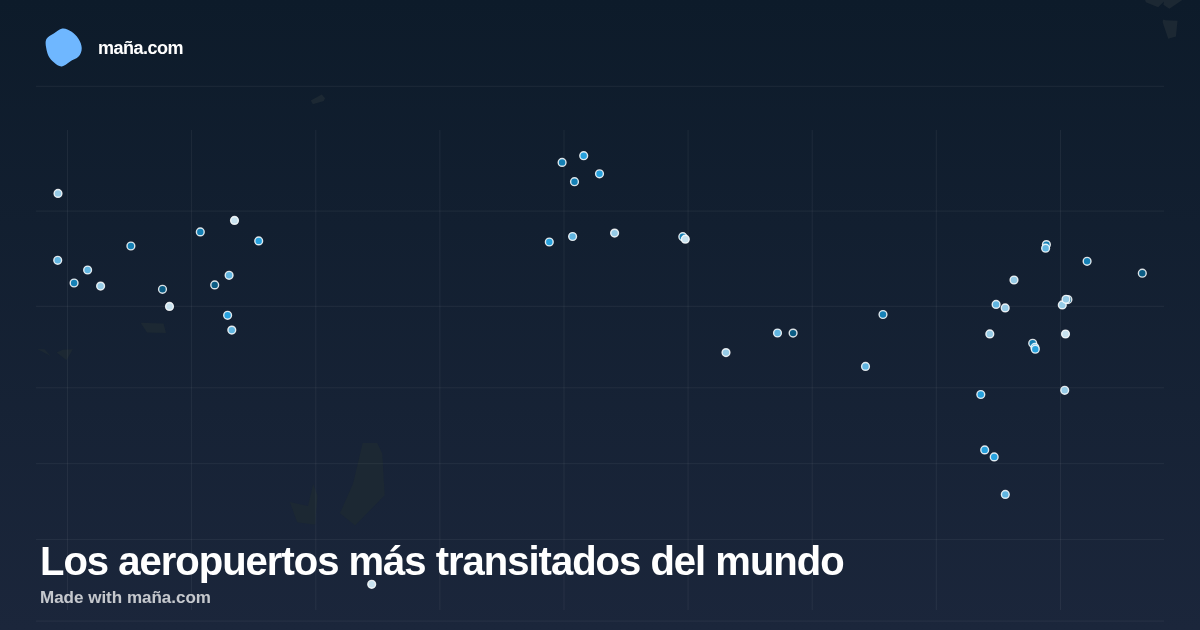
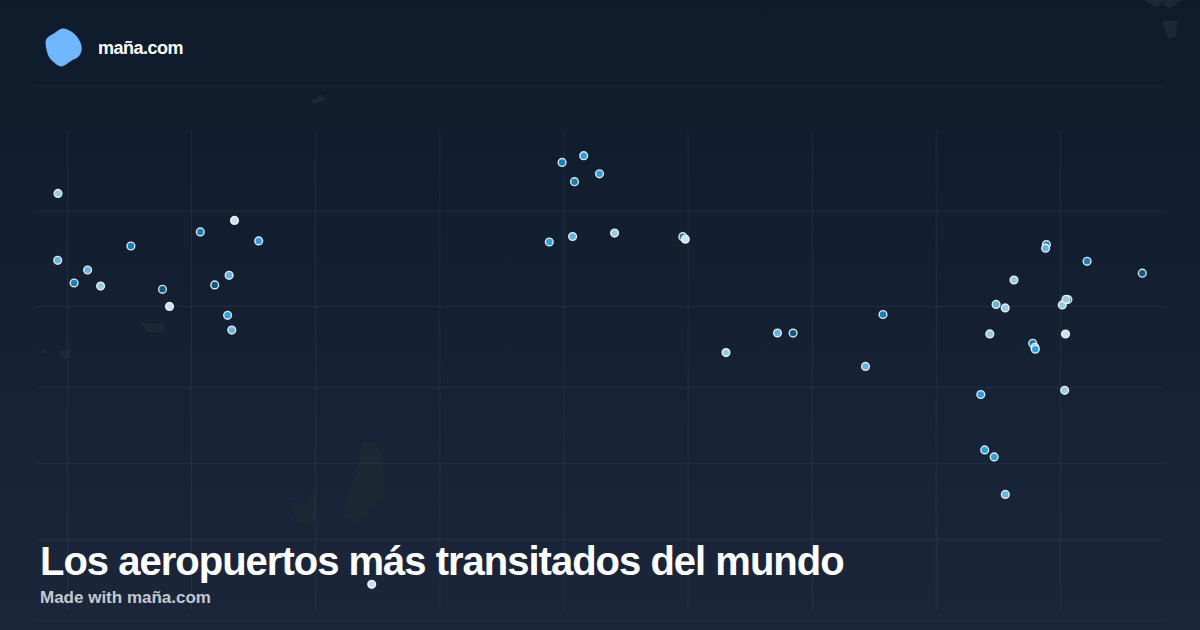
chore: generar landings estaticas y OG cards de mapas

Changed region(s): [[0.0308, 0.8746, 0.7092, 0.9048], [0.0308, 0.9349, 0.185, 0.9651], [0.0617, 0.0603, 0.1542, 0.0905]]

diff --git a/gallery/largest-islands-world/index.html b/gallery/largest-islands-world/index.html
@@ -23,7 +23,7 @@
 <link rel="preconnect" href="https://fonts.googleapis.com">
 <link rel="preconnect" href="https://fonts.gstatic.com" crossorigin>
 <link rel="stylesheet" href="https://fonts.googleapis.com/css2?family=DM+Sans:wght@400;500;600;700;800;900&display=swap">
-<script type="application/ld+json">{"@context":"https://schema.org","@type":"Dataset","name":"Las islas más grandes del mundo","description":"Las 22 islas más grandes del planeta ordenadas por superficie. Groenlandia, con más de 2 millones de km², es casi 5 veces más grande que Madagascar, la cuarta isla más grande.","url":"https://maña.com/gallery/largest-islands-world/","spatialCoverage":{"@type":"Place","name":"Mundo"},"creator":{"@type":"Organization","name":"Maña Maps","url":"https://maña.com"},"source":"Natural Earth 50m (geometría de islas) + Wikipedia (superficie y población) · 2026-09","dateModified":"2026-10-15","keywords":["Geografía","Naturaleza","Islas","Océanos"]}</script>
+<script type="application/ld+json">{"@context":"https://schema.org","@type":"Dataset","name":"Las islas más grandes del mundo","description":"Las 22 islas más grandes del planeta ordenadas por superficie. Groenlandia, con más de 2 millones de km², es casi 5 veces más grande que Madagascar, la cuarta isla más grande.","url":"https://maña.com/gallery/largest-islands-world/","spatialCoverage":{"@type":"Place","name":"Mundo"},"creator":{"@type":"Organization","name":"Maña Maps","url":"https://maña.com"},"dateModified":"2026-10-18"}</script>
 <style>
   :root{--sky:#0ea5e9;--ink:#111827;--muted:#6b7280;--line:#e5e7eb}
   *{box-sizing:border-box}
@@ -68,14 +68,14 @@
     <h1>Las islas más grandes del mundo</h1>
     <p class="lede">Las 22 islas más grandes del planeta ordenadas por superficie. Groenlandia, con más de 2 millones de km², es casi 5 veces más grande que Madagascar, la cuarta isla más grande.</p>
     <a class="shot" href="/gallery/?slug=largest-islands-world"><img src="/og-cards/largest-islands-world.png" alt="Las islas más grandes del mundo" width="1200" height="630"></a>
-    <p class="meta">22 elementos · 2026-10-15</p>
+    <p class="meta">22 elementos · 2026-10-18</p>
     <div class="cta">
       <a class="btn btn-primary" href="/map/" onclick="if(window.trackEvent)window.trackEvent('cta_click',{target:'create_map',source:'static_map'})">Crea tu mapa gratis</a>
       <a class="btn btn-ghost" href="/gallery/?slug=largest-islands-world" onclick="if(window.trackEvent)window.trackEvent('cta_click',{target:'interactive',source:'static_map'})">Abrir mapa interactivo</a>
       <a class="btn btn-ghost" href="https://twitter.com/intent/tweet?text=Las%20islas%20m%C3%A1s%20grandes%20del%20mundo%20%E2%80%94%20v%C3%ADa%20Ma%C3%B1a%20Maps&url=https%3A%2F%2Fma%C3%B1a.com%2Fgallery%2Flargest-islands-world%2F" target="_blank" rel="noopener" onclick="if(window.trackEvent)window.trackEvent('share',{network:'x',source:'static_map'})">Compartir en X</a>
     </div>
-    <div class="source"><strong>Fuente de datos:</strong> Natural Earth 50m (geometría de islas) + Wikipedia (superficie y población) · 2026-09</div>
-    <section class="related"><h2>Más mapas</h2><ul><li><a href="/gallery/gini-index-world/">Desigualdad de ingresos (índice Gini) mundial por país</a></li><li><a href="/gallery/tourism-arrivals-world/">Países que más reciben turistas internacionales</a></li><li><a href="/gallery/most-populated-cities-world/">Ciudades más pobladas del mundo</a></li><li><a href="/gallery/tallest-waterfalls-world/">Las cascadas más altas del mundo</a></li></ul></section>
+    
+    <section class="related"><h2>Más mapas</h2><ul><li><a href="/gallery/airports-world/">Los aeropuertos más transitados del mundo</a></li><li><a href="/gallery/gini-index-world/">Desigualdad de ingresos (índice Gini) mundial por país</a></li><li><a href="/gallery/tourism-arrivals-world/">Países que más reciben turistas internacionales</a></li><li><a href="/gallery/most-populated-cities-world/">Ciudades más pobladas del mundo</a></li></ul></section>
   </main>
   <footer>
     <a href="/gallery/">Galería</a>

diff --git a/gallery/longest-rivers-world/index.html b/gallery/longest-rivers-world/index.html
@@ -23,7 +23,7 @@
 <link rel="preconnect" href="https://fonts.googleapis.com">
 <link rel="preconnect" href="https://fonts.gstatic.com" crossorigin>
 <link rel="stylesheet" href="https://fonts.googleapis.com/css2?family=DM+Sans:wght@400;500;600;700;800;900&display=swap">
-<script type="application/ld+json">{"@context":"https://schema.org","@type":"Dataset","name":"Los 10 ríos más largos del mundo","description":"Los diez ríos más extensos del planeta, con sus cursos reales obtenidos de Natural Earth. Cada río muestra longitud, nacimiento, desembocadura y países que atraviesa.","url":"https://maña.com/gallery/longest-rivers-world/","spatialCoverage":{"@type":"Place","name":"Mundo"},"creator":{"@type":"Organization","name":"Maña Maps","url":"https://maña.com"},"source":"Natural Earth 50m rivers_lake_centerlines (naturalearthdata.com) · 2024-12-01","dateModified":"2026-10-15","keywords":["Geografía","Hidrografía","Naturaleza"]}</script>
+<script type="application/ld+json">{"@context":"https://schema.org","@type":"Dataset","name":"Los 10 ríos más largos del mundo","description":"Los diez ríos más extensos del planeta, con sus cursos reales obtenidos de Natural Earth. Cada río muestra longitud, nacimiento, desembocadura y países que atraviesa.","url":"https://maña.com/gallery/longest-rivers-world/","spatialCoverage":{"@type":"Place","name":"Mundo"},"creator":{"@type":"Organization","name":"Maña Maps","url":"https://maña.com"},"dateModified":"2026-10-18"}</script>
 <style>
   :root{--sky:#0ea5e9;--ink:#111827;--muted:#6b7280;--line:#e5e7eb}
   *{box-sizing:border-box}
@@ -68,14 +68,14 @@
     <h1>Los 10 ríos más largos del mundo</h1>
     <p class="lede">Los diez ríos más extensos del planeta, con sus cursos reales obtenidos de Natural Earth. Cada río muestra longitud, nacimiento, desembocadura y países que atraviesa.</p>
     <a class="shot" href="/gallery/?slug=longest-rivers-world"><img src="/og-cards/longest-rivers-world.png" alt="Los 10 ríos más largos del mundo" width="1200" height="630"></a>
-    <p class="meta">10 elementos · 2026-10-15</p>
+    <p class="meta">10 elementos · 2026-10-18</p>
     <div class="cta">
       <a class="btn btn-primary" href="/map/" onclick="if(window.trackEvent)window.trackEvent('cta_click',{target:'create_map',source:'static_map'})">Crea tu mapa gratis</a>
       <a class="btn btn-ghost" href="/gallery/?slug=longest-rivers-world" onclick="if(window.trackEvent)window.trackEvent('cta_click',{target:'interactive',source:'static_map'})">Abrir mapa interactivo</a>
       <a class="btn btn-ghost" href="https://twitter.com/intent/tweet?text=Los%2010%20r%C3%ADos%20m%C3%A1s%20largos%20del%20mundo%20%E2%80%94%20v%C3%ADa%20Ma%C3%B1a%20Maps&url=https%3A%2F%2Fma%C3%B1a.com%2Fgallery%2Flongest-rivers-world%2F" target="_blank" rel="noopener" onclick="if(window.trackEvent)window.trackEvent('share',{network:'x',source:'static_map'})">Compartir en X</a>
     </div>
-    <div class="source"><strong>Fuente de datos:</strong> Natural Earth 50m rivers_lake_centerlines (naturalearthdata.com) · 2024-12-01</div>
-    <section class="related"><h2>Más mapas</h2><ul><li><a href="/gallery/gini-index-world/">Desigualdad de ingresos (índice Gini) mundial por país</a></li><li><a href="/gallery/tourism-arrivals-world/">Países que más reciben turistas internacionales</a></li><li><a href="/gallery/most-populated-cities-world/">Ciudades más pobladas del mundo</a></li><li><a href="/gallery/tallest-waterfalls-world/">Las cascadas más altas del mundo</a></li></ul></section>
+    
+    <section class="related"><h2>Más mapas</h2><ul><li><a href="/gallery/airports-world/">Los aeropuertos más transitados del mundo</a></li><li><a href="/gallery/gini-index-world/">Desigualdad de ingresos (índice Gini) mundial por país</a></li><li><a href="/gallery/tourism-arrivals-world/">Países que más reciben turistas internacionales</a></li><li><a href="/gallery/most-populated-cities-world/">Ciudades más pobladas del mundo</a></li></ul></section>
   </main>
   <footer>
     <a href="/gallery/">Galería</a>

diff --git a/gallery/minimum-wage-by-country/index.html b/gallery/minimum-wage-by-country/index.html
@@ -75,7 +75,7 @@
       <a class="btn btn-ghost" href="https://twitter.com/intent/tweet?text=Salario%20m%C3%ADnimo%20por%20pa%C3%ADs%20%E2%80%94%20v%C3%ADa%20Ma%C3%B1a%20Maps&url=https%3A%2F%2Fma%C3%B1a.com%2Fgallery%2Fminimum-wage-by-country%2F" target="_blank" rel="noopener" onclick="if(window.trackEvent)window.trackEvent('share',{network:'x',source:'static_map'})">Compartir en X</a>
     </div>
     <div class="source"><strong>Fuente de datos:</strong> OIT/ILOSTAT (statutory nominal gross monthly minimum wage, Dec 2024) + WageIndicator Minimum Wage Database Dec 2024 (193 ONU + 14 territorios; 500+ fuentes oficiales) + Banco Mundial WDI PA.NUS.FCRF tipo de cambio oficial 2024 (LCU/USD) + convenios colectivos nacionales (Austria/Dinamarca/Finlandia/Islandia/Suecia/Noruega/Italia/Liechtenstein ~1500-1700 EUR o 14000-17000 SEK/DKK/NOK/ISK; Singapur PWM, EAU/Brunéi sectorial) y estimaciones sectoriales OIT para Eritrea/Etiopía/Somalia/Sudán del Sur/Ruanda/Uganda/Namibia/Tonga/Tuvalu/Nauru (umbral pobreza/salario medio sector menor) · 2024-12-01</div>
-    <section class="related"><h2>Más mapas</h2><ul><li><a href="/gallery/gini-index-world/">Desigualdad de ingresos (índice Gini) mundial por país</a></li><li><a href="/gallery/tourism-arrivals-world/">Países que más reciben turistas internacionales</a></li><li><a href="/gallery/most-populated-cities-world/">Ciudades más pobladas del mundo</a></li><li><a href="/gallery/tallest-waterfalls-world/">Las cascadas más altas del mundo</a></li></ul></section>
+    <section class="related"><h2>Más mapas</h2><ul><li><a href="/gallery/airports-world/">Los aeropuertos más transitados del mundo</a></li><li><a href="/gallery/gini-index-world/">Desigualdad de ingresos (índice Gini) mundial por país</a></li><li><a href="/gallery/tourism-arrivals-world/">Países que más reciben turistas internacionales</a></li><li><a href="/gallery/most-populated-cities-world/">Ciudades más pobladas del mundo</a></li></ul></section>
   </main>
   <footer>
     <a href="/gallery/">Galería</a>

diff --git a/gallery/water-sanitation-access-world/index.html b/gallery/water-sanitation-access-world/index.html
@@ -75,7 +75,7 @@
       <a class="btn btn-ghost" href="https://twitter.com/intent/tweet?text=Acceso%20a%20agua%20potable%20y%20saneamiento%20por%20pa%C3%ADs%20%E2%80%94%20v%C3%ADa%20Ma%C3%B1a%20Maps&url=https%3A%2F%2Fma%C3%B1a.com%2Fgallery%2Fwater-sanitation-access-world%2F" target="_blank" rel="noopener" onclick="if(window.trackEvent)window.trackEvent('share',{network:'x',source:'static_map'})">Compartir en X</a>
     </div>
     <div class="source"><strong>Fuente de datos:</strong> World Bank — People using at least basic drinking water services (% of population). Indicator SH.H2O.BASW.ZS; People using at least basic sanitation services (% of population). Indicator SH.STA.BASS.ZS. Datos WHO/UNICEF JMP vía World Bank. https://data.worldbank.org/indicator/SH.H2O.BASW.ZS · 2024-12-31</div>
-    <section class="related"><h2>Más mapas</h2><ul><li><a href="/gallery/gini-index-world/">Desigualdad de ingresos (índice Gini) mundial por país</a></li><li><a href="/gallery/tourism-arrivals-world/">Países que más reciben turistas internacionales</a></li><li><a href="/gallery/most-populated-cities-world/">Ciudades más pobladas del mundo</a></li><li><a href="/gallery/tallest-waterfalls-world/">Las cascadas más altas del mundo</a></li></ul></section>
+    <section class="related"><h2>Más mapas</h2><ul><li><a href="/gallery/airports-world/">Los aeropuertos más transitados del mundo</a></li><li><a href="/gallery/gini-index-world/">Desigualdad de ingresos (índice Gini) mundial por país</a></li><li><a href="/gallery/tourism-arrivals-world/">Países que más reciben turistas internacionales</a></li><li><a href="/gallery/most-populated-cities-world/">Ciudades más pobladas del mundo</a></li></ul></section>
   </main>
   <footer>
     <a href="/gallery/">Galería</a>

diff --git a/gallery/tourism-arrivals-world/index.html b/gallery/tourism-arrivals-world/index.html
@@ -75,7 +75,7 @@
       <a class="btn btn-ghost" href="https://twitter.com/intent/tweet?text=Pa%C3%ADses%20que%20m%C3%A1s%20reciben%20turistas%20internacionales%20%E2%80%94%20v%C3%ADa%20Ma%C3%B1a%20Maps&url=https%3A%2F%2Fma%C3%B1a.com%2Fgallery%2Ftourism-arrivals-world%2F" target="_blank" rel="noopener" onclick="if(window.trackEvent)window.trackEvent('share',{network:'x',source:'static_map'})">Compartir en X</a>
     </div>
     <div class="source"><strong>Fuente de datos:</strong> UN Tourism (OMT) — Base de datos de estadísticas de turismo, indicador INBD_TRIP_TOTL_TOTL_TOUR (inbound trips, descarga de diciembre de 2025) + World Tourism Barometer (enero 2026, datos 2024). Geometrías: Natural Earth (vía population-by-country). https://www.unwto.org/tourism-statistics · 2024-12-31</div>
-    <section class="related"><h2>Más mapas</h2><ul><li><a href="/gallery/gini-index-world/">Desigualdad de ingresos (índice Gini) mundial por país</a></li><li><a href="/gallery/most-populated-cities-world/">Ciudades más pobladas del mundo</a></li><li><a href="/gallery/tallest-waterfalls-world/">Las cascadas más altas del mundo</a></li><li><a href="/gallery/daily-steps-world/">Pasos medios diarios por país</a></li></ul></section>
+    <section class="related"><h2>Más mapas</h2><ul><li><a href="/gallery/airports-world/">Los aeropuertos más transitados del mundo</a></li><li><a href="/gallery/gini-index-world/">Desigualdad de ingresos (índice Gini) mundial por país</a></li><li><a href="/gallery/most-populated-cities-world/">Ciudades más pobladas del mundo</a></li><li><a href="/gallery/tallest-waterfalls-world/">Las cascadas más altas del mundo</a></li></ul></section>
   </main>
   <footer>
     <a href="/gallery/">Galería</a>

diff --git a/gallery/bibliotecas-barcelona/index.html b/gallery/bibliotecas-barcelona/index.html
@@ -75,7 +75,7 @@
       <a class="btn btn-ghost" href="https://twitter.com/intent/tweet?text=Bibliotecas%20p%C3%BAblicas%20de%20Barcelona%20%E2%80%94%20v%C3%ADa%20Ma%C3%B1a%20Maps&url=https%3A%2F%2Fma%C3%B1a.com%2Fgallery%2Fbibliotecas-barcelona%2F" target="_blank" rel="noopener" onclick="if(window.trackEvent)window.trackEvent('share',{network:'x',source:'static_map'})">Compartir en X</a>
     </div>
     <div class="source"><strong>Fuente de datos:</strong> Ajuntament de Barcelona — Opèndata: Dades de la xarxa de biblioteques de la ciutat de Barcelona (dades-xarxa-biblioteques-catalunya, 2025). Direcciones cruzadas con el inventario «Espais amb biblioteca o sala d&#39;estudi i museístics» (culturailleure-bibliotequesimuseus). · 2026-09-29</div>
-    <section class="related"><h2>Más mapas</h2><ul><li><a href="/gallery/gini-index-world/">Desigualdad de ingresos (índice Gini) mundial por país</a></li><li><a href="/gallery/tourism-arrivals-world/">Países que más reciben turistas internacionales</a></li><li><a href="/gallery/most-populated-cities-world/">Ciudades más pobladas del mundo</a></li><li><a href="/gallery/tallest-waterfalls-world/">Las cascadas más altas del mundo</a></li></ul></section>
+    <section class="related"><h2>Más mapas</h2><ul><li><a href="/gallery/airports-world/">Los aeropuertos más transitados del mundo</a></li><li><a href="/gallery/gini-index-world/">Desigualdad de ingresos (índice Gini) mundial por país</a></li><li><a href="/gallery/tourism-arrivals-world/">Países que más reciben turistas internacionales</a></li><li><a href="/gallery/most-populated-cities-world/">Ciudades más pobladas del mundo</a></li></ul></section>
   </main>
   <footer>
     <a href="/gallery/">Galería</a>

diff --git a/gallery/daily-steps-world/index.html b/gallery/daily-steps-world/index.html
@@ -75,7 +75,7 @@
       <a class="btn btn-ghost" href="https://twitter.com/intent/tweet?text=Pasos%20medios%20diarios%20por%20pa%C3%ADs%20%E2%80%94%20v%C3%ADa%20Ma%C3%B1a%20Maps&url=https%3A%2F%2Fma%C3%B1a.com%2Fgallery%2Fdaily-steps-world%2F" target="_blank" rel="noopener" onclick="if(window.trackEvent)window.trackEvent('share',{network:'x',source:'static_map'})">Compartir en X</a>
     </div>
     <div class="source"><strong>Fuente de datos:</strong> Althoff, T. et al. (2017) — «Large-scale physical activity data reveal worldwide activity inequality», Nature 547, 336–339 (Supplementary Table 1; pasos medios diarios medidos con sensores de smartphone, app Argus/Azumio). DOI: https://doi.org/10.1038/nature23018 · 2017-07-10</div>
-    <section class="related"><h2>Más mapas</h2><ul><li><a href="/gallery/gini-index-world/">Desigualdad de ingresos (índice Gini) mundial por país</a></li><li><a href="/gallery/tourism-arrivals-world/">Países que más reciben turistas internacionales</a></li><li><a href="/gallery/most-populated-cities-world/">Ciudades más pobladas del mundo</a></li><li><a href="/gallery/tallest-waterfalls-world/">Las cascadas más altas del mundo</a></li></ul></section>
+    <section class="related"><h2>Más mapas</h2><ul><li><a href="/gallery/airports-world/">Los aeropuertos más transitados del mundo</a></li><li><a href="/gallery/gini-index-world/">Desigualdad de ingresos (índice Gini) mundial por país</a></li><li><a href="/gallery/tourism-arrivals-world/">Países que más reciben turistas internacionales</a></li><li><a href="/gallery/most-populated-cities-world/">Ciudades más pobladas del mundo</a></li></ul></section>
   </main>
   <footer>
     <a href="/gallery/">Galería</a>

diff --git a/gallery/literacy-rate-world/index.html b/gallery/literacy-rate-world/index.html
@@ -75,7 +75,7 @@
       <a class="btn btn-ghost" href="https://twitter.com/intent/tweet?text=Alfabetizaci%C3%B3n%20mundial%20por%20pa%C3%ADs%20%E2%80%94%20v%C3%ADa%20Ma%C3%B1a%20Maps&url=https%3A%2F%2Fma%C3%B1a.com%2Fgallery%2Fliteracy-rate-world%2F" target="_blank" rel="noopener" onclick="if(window.trackEvent)window.trackEvent('share',{network:'x',source:'static_map'})">Compartir en X</a>
     </div>
     <div class="source"><strong>Fuente de datos:</strong> UNESCO Institute for Statistics / World Bank — Literacy rate, adult total (% of people ages 15 and above). Indicator SE.ADT.LITR.ZS. Estimaciones UIS/UN para países sin reporte oficial reciente. https://data.worldbank.org/indicator/SE.ADT.LITR.ZS · 2023-12-31</div>
-    <section class="related"><h2>Más mapas</h2><ul><li><a href="/gallery/gini-index-world/">Desigualdad de ingresos (índice Gini) mundial por país</a></li><li><a href="/gallery/tourism-arrivals-world/">Países que más reciben turistas internacionales</a></li><li><a href="/gallery/most-populated-cities-world/">Ciudades más pobladas del mundo</a></li><li><a href="/gallery/tallest-waterfalls-world/">Las cascadas más altas del mundo</a></li></ul></section>
+    <section class="related"><h2>Más mapas</h2><ul><li><a href="/gallery/airports-world/">Los aeropuertos más transitados del mundo</a></li><li><a href="/gallery/gini-index-world/">Desigualdad de ingresos (índice Gini) mundial por país</a></li><li><a href="/gallery/tourism-arrivals-world/">Países que más reciben turistas internacionales</a></li><li><a href="/gallery/most-populated-cities-world/">Ciudades más pobladas del mundo</a></li></ul></section>
   </main>
   <footer>
     <a href="/gallery/">Galería</a>

diff --git a/gallery/infant-mortality-world/index.html b/gallery/infant-mortality-world/index.html
@@ -75,7 +75,7 @@
       <a class="btn btn-ghost" href="https://twitter.com/intent/tweet?text=Mortalidad%20infantil%20mundial%20por%20pa%C3%ADs%20%E2%80%94%20v%C3%ADa%20Ma%C3%B1a%20Maps&url=https%3A%2F%2Fma%C3%B1a.com%2Fgallery%2Finfant-mortality-world%2F" target="_blank" rel="noopener" onclick="if(window.trackEvent)window.trackEvent('share',{network:'x',source:'static_map'})">Compartir en X</a>
     </div>
     <div class="source"><strong>Fuente de datos:</strong> World Bank / UN IGME — Mortality rate, infant (per 1,000 live births). Indicator SP.DYN.IMRT.IN. UN Inter-agency Group for Child Mortality Estimation (UNICEF/WHO/UN). https://data.worldbank.org/indicator/SP.DYN.IMRT.IN · 2024-12-31</div>
-    <section class="related"><h2>Más mapas</h2><ul><li><a href="/gallery/gini-index-world/">Desigualdad de ingresos (índice Gini) mundial por país</a></li><li><a href="/gallery/tourism-arrivals-world/">Países que más reciben turistas internacionales</a></li><li><a href="/gallery/most-populated-cities-world/">Ciudades más pobladas del mundo</a></li><li><a href="/gallery/tallest-waterfalls-world/">Las cascadas más altas del mundo</a></li></ul></section>
+    <section class="related"><h2>Más mapas</h2><ul><li><a href="/gallery/airports-world/">Los aeropuertos más transitados del mundo</a></li><li><a href="/gallery/gini-index-world/">Desigualdad de ingresos (índice Gini) mundial por país</a></li><li><a href="/gallery/tourism-arrivals-world/">Países que más reciben turistas internacionales</a></li><li><a href="/gallery/most-populated-cities-world/">Ciudades más pobladas del mundo</a></li></ul></section>
   </main>
   <footer>
     <a href="/gallery/">Galería</a>

diff --git a/gallery/gini-index-world/index.html b/gallery/gini-index-world/index.html
@@ -75,7 +75,7 @@
       <a class="btn btn-ghost" href="https://twitter.com/intent/tweet?text=Desigualdad%20de%20ingresos%20(%C3%ADndice%20Gini)%20mundial%20por%20pa%C3%ADs%20%E2%80%94%20v%C3%ADa%20Ma%C3%B1a%20Maps&url=https%3A%2F%2Fma%C3%B1a.com%2Fgallery%2Fgini-index-world%2F" target="_blank" rel="noopener" onclick="if(window.trackEvent)window.trackEvent('share',{network:'x',source:'static_map'})">Compartir en X</a>
     </div>
     <div class="source"><strong>Fuente de datos:</strong> World Bank — Poverty and Inequality Platform (PIP, 2026), vía Our World in Data (ourworldindata.org/grapher/gini-coefficient-wb): Gini coefficient, ingreso/consumo tras impuestos y transferencias. Geometrías: Natural Earth 110m/50m. · 2025-12-31</div>
-    <section class="related"><h2>Más mapas</h2><ul><li><a href="/gallery/tourism-arrivals-world/">Países que más reciben turistas internacionales</a></li><li><a href="/gallery/most-populated-cities-world/">Ciudades más pobladas del mundo</a></li><li><a href="/gallery/tallest-waterfalls-world/">Las cascadas más altas del mundo</a></li><li><a href="/gallery/daily-steps-world/">Pasos medios diarios por país</a></li></ul></section>
+    <section class="related"><h2>Más mapas</h2><ul><li><a href="/gallery/airports-world/">Los aeropuertos más transitados del mundo</a></li><li><a href="/gallery/tourism-arrivals-world/">Países que más reciben turistas internacionales</a></li><li><a href="/gallery/most-populated-cities-world/">Ciudades más pobladas del mundo</a></li><li><a href="/gallery/tallest-waterfalls-world/">Las cascadas más altas del mundo</a></li></ul></section>
   </main>
   <footer>
     <a href="/gallery/">Galería</a>

diff --git a/gallery/most-populated-cities-world/index.html b/gallery/most-populated-cities-world/index.html
@@ -75,7 +75,7 @@
       <a class="btn btn-ghost" href="https://twitter.com/intent/tweet?text=Ciudades%20m%C3%A1s%20pobladas%20del%20mundo%20%E2%80%94%20v%C3%ADa%20Ma%C3%B1a%20Maps&url=https%3A%2F%2Fma%C3%B1a.com%2Fgallery%2Fmost-populated-cities-world%2F" target="_blank" rel="noopener" onclick="if(window.trackEvent)window.trackEvent('share',{network:'x',source:'static_map'})">Compartir en X</a>
     </div>
     <div class="source"><strong>Fuente de datos:</strong> Naciones Unidas, División de Población (DESA): World Urbanization Prospects: The 2025 Revision, Online Edition — Archivo F18 «The 100 Largest Cities Ranked by Population Size» (estimación a 2025, consistente con WPP 2024). · 2025</div>
-    <section class="related"><h2>Más mapas</h2><ul><li><a href="/gallery/gini-index-world/">Desigualdad de ingresos (índice Gini) mundial por país</a></li><li><a href="/gallery/tourism-arrivals-world/">Países que más reciben turistas internacionales</a></li><li><a href="/gallery/tallest-waterfalls-world/">Las cascadas más altas del mundo</a></li><li><a href="/gallery/daily-steps-world/">Pasos medios diarios por país</a></li></ul></section>
+    <section class="related"><h2>Más mapas</h2><ul><li><a href="/gallery/airports-world/">Los aeropuertos más transitados del mundo</a></li><li><a href="/gallery/gini-index-world/">Desigualdad de ingresos (índice Gini) mundial por país</a></li><li><a href="/gallery/tourism-arrivals-world/">Países que más reciben turistas internacionales</a></li><li><a href="/gallery/tallest-waterfalls-world/">Las cascadas más altas del mundo</a></li></ul></section>
   </main>
   <footer>
     <a href="/gallery/">Galería</a>

diff --git a/gallery/major-deserts-world/index.html b/gallery/major-deserts-world/index.html
@@ -75,7 +75,7 @@
       <a class="btn btn-ghost" href="https://twitter.com/intent/tweet?text=Principales%20desiertos%20del%20mundo%20%E2%80%94%20v%C3%ADa%20Ma%C3%B1a%20Maps&url=https%3A%2F%2Fma%C3%B1a.com%2Fgallery%2Fmajor-deserts-world%2F" target="_blank" rel="noopener" onclick="if(window.trackEvent)window.trackEvent('share',{network:'x',source:'static_map'})">Compartir en X</a>
     </div>
     <div class="source"><strong>Fuente de datos:</strong> WWF — Terrestrial Ecoregions of the World (Olson et al., 2001), ecorregiones de desiertos y matorrales xerófilos; Natural Earth 1:50m (geometría antártica). Superficies de referencia: UNEP World Atlas of Desertification. · 2024</div>
-    <section class="related"><h2>Más mapas</h2><ul><li><a href="/gallery/gini-index-world/">Desigualdad de ingresos (índice Gini) mundial por país</a></li><li><a href="/gallery/tourism-arrivals-world/">Países que más reciben turistas internacionales</a></li><li><a href="/gallery/most-populated-cities-world/">Ciudades más pobladas del mundo</a></li><li><a href="/gallery/tallest-waterfalls-world/">Las cascadas más altas del mundo</a></li></ul></section>
+    <section class="related"><h2>Más mapas</h2><ul><li><a href="/gallery/airports-world/">Los aeropuertos más transitados del mundo</a></li><li><a href="/gallery/gini-index-world/">Desigualdad de ingresos (índice Gini) mundial por país</a></li><li><a href="/gallery/tourism-arrivals-world/">Países que más reciben turistas internacionales</a></li><li><a href="/gallery/most-populated-cities-world/">Ciudades más pobladas del mundo</a></li></ul></section>
   </main>
   <footer>
     <a href="/gallery/">Galería</a>
